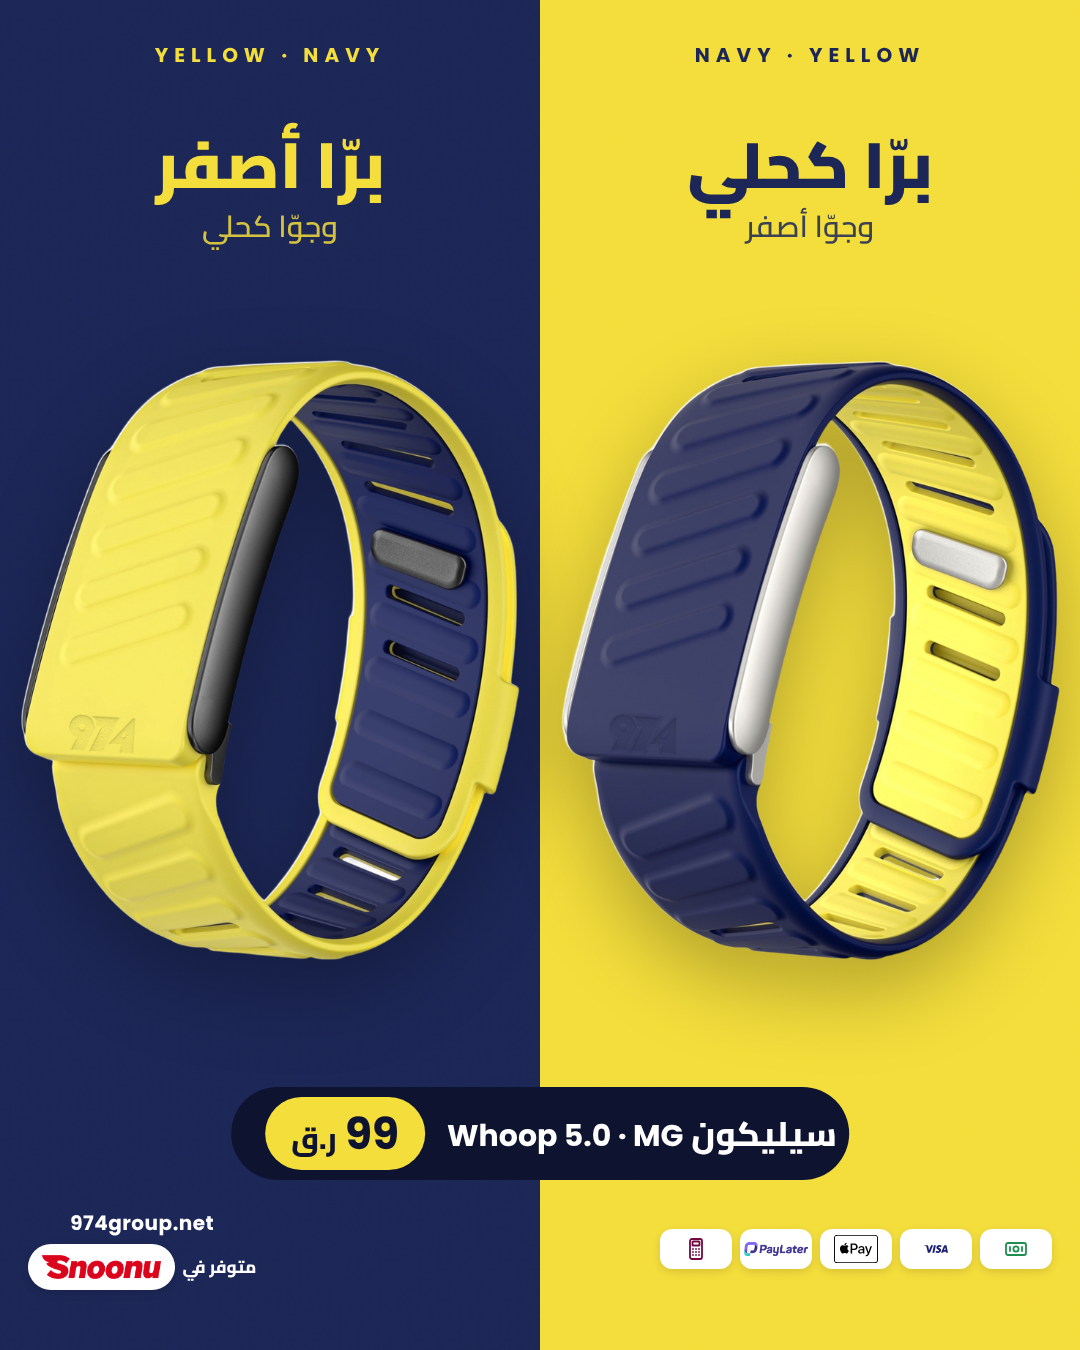
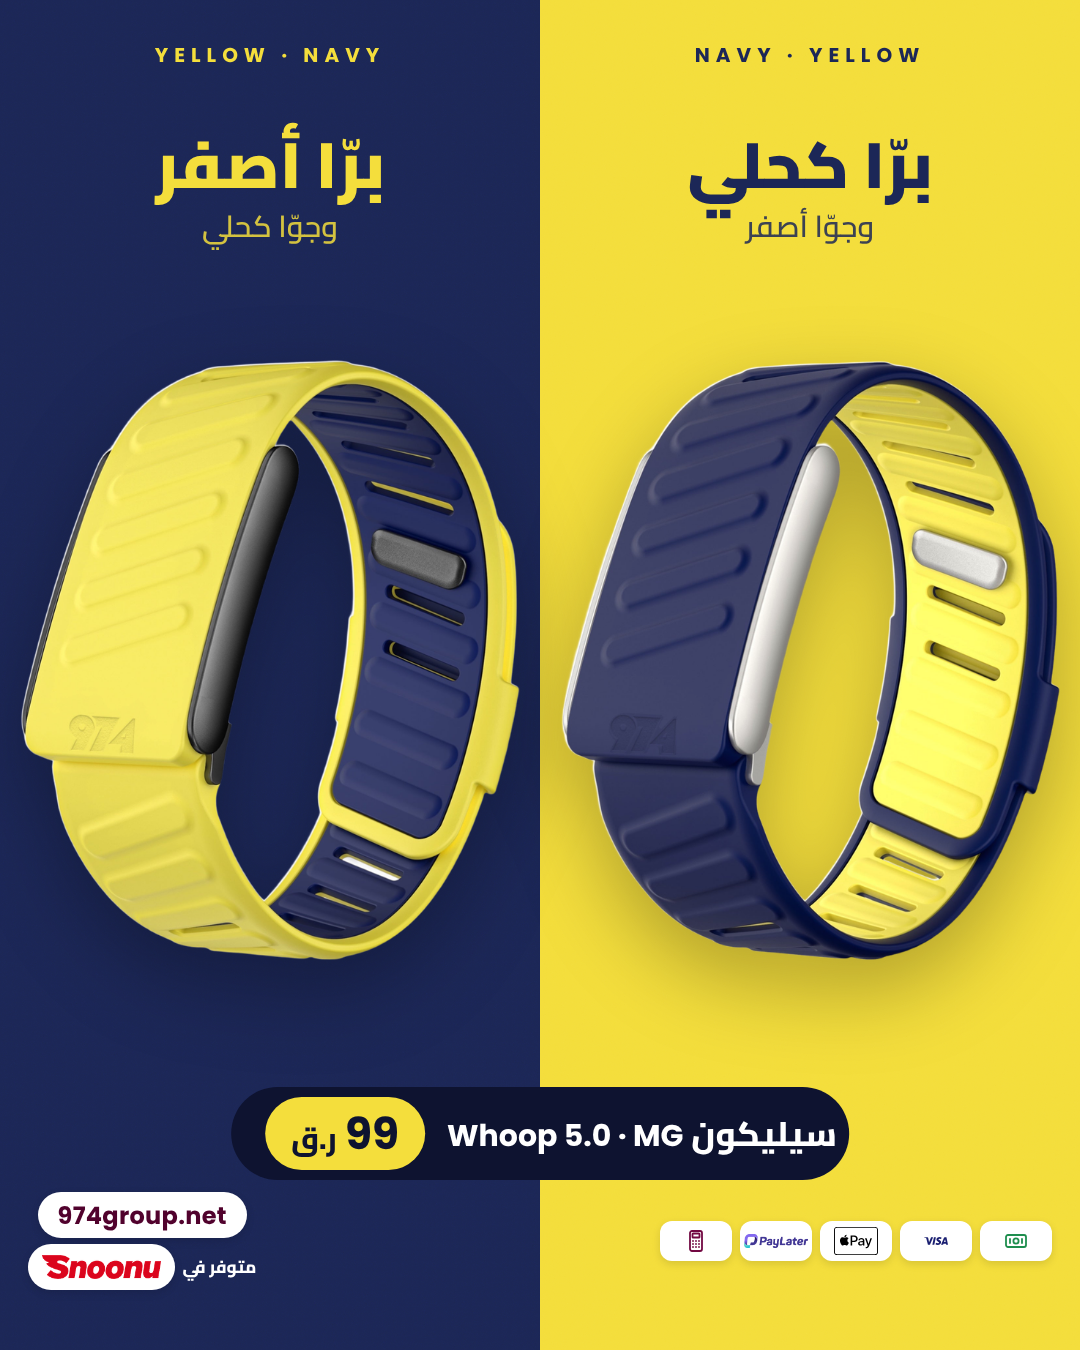
payfoot: 974group.net in white chip, larger
Claude-Session: https://claude.ai/code/session_01K6HDWNrArsGSJekW1VcEzV

Changed region(s): [[0.6111, 0.9022, 0.9778, 0.9644], [0.0306, 0.8711, 0.2444, 0.9333]]

diff --git a/templates/payfoot.py b/templates/payfoot.py
@@ -18,7 +18,7 @@ def css(scale=1.0, text='#4A1630', label='#7E3D5C'):
 .payfoot .av .chip.site{{gap:{int(6*s)}px;padding:0 {int(12*s)}px}}
 .payfoot .av .chip.site img{{height:{int(20*s)}px}}
 .payfoot .av .row{{display:flex;align-items:center;gap:{int(7*s)}px}}
-.payfoot .av .site{{font-family:Poppins;font-weight:700;font-size:{int(20*s)}px;letter-spacing:.5px;color:{text};direction:ltr}}
+.payfoot .av .site{{background:#fff;border-radius:{int(30*s)}px;height:{int(46*s)}px;padding:0 {int(20*s)}px;display:flex;align-items:center;box-shadow:0 3px 8px rgba(0,0,0,.12);font-family:Poppins;font-weight:700;font-size:{int(24*s)}px;letter-spacing:.3px;color:#51022D;direction:ltr}}
 .payfoot .av .chip b{{font-family:Poppins;font-weight:700;font-size:{int(15*s)}px;color:#51022D}}
 '''
 MARK='file:///home/claude/974-social/posts/2026-11/waterproof/src/mark-c.png'
